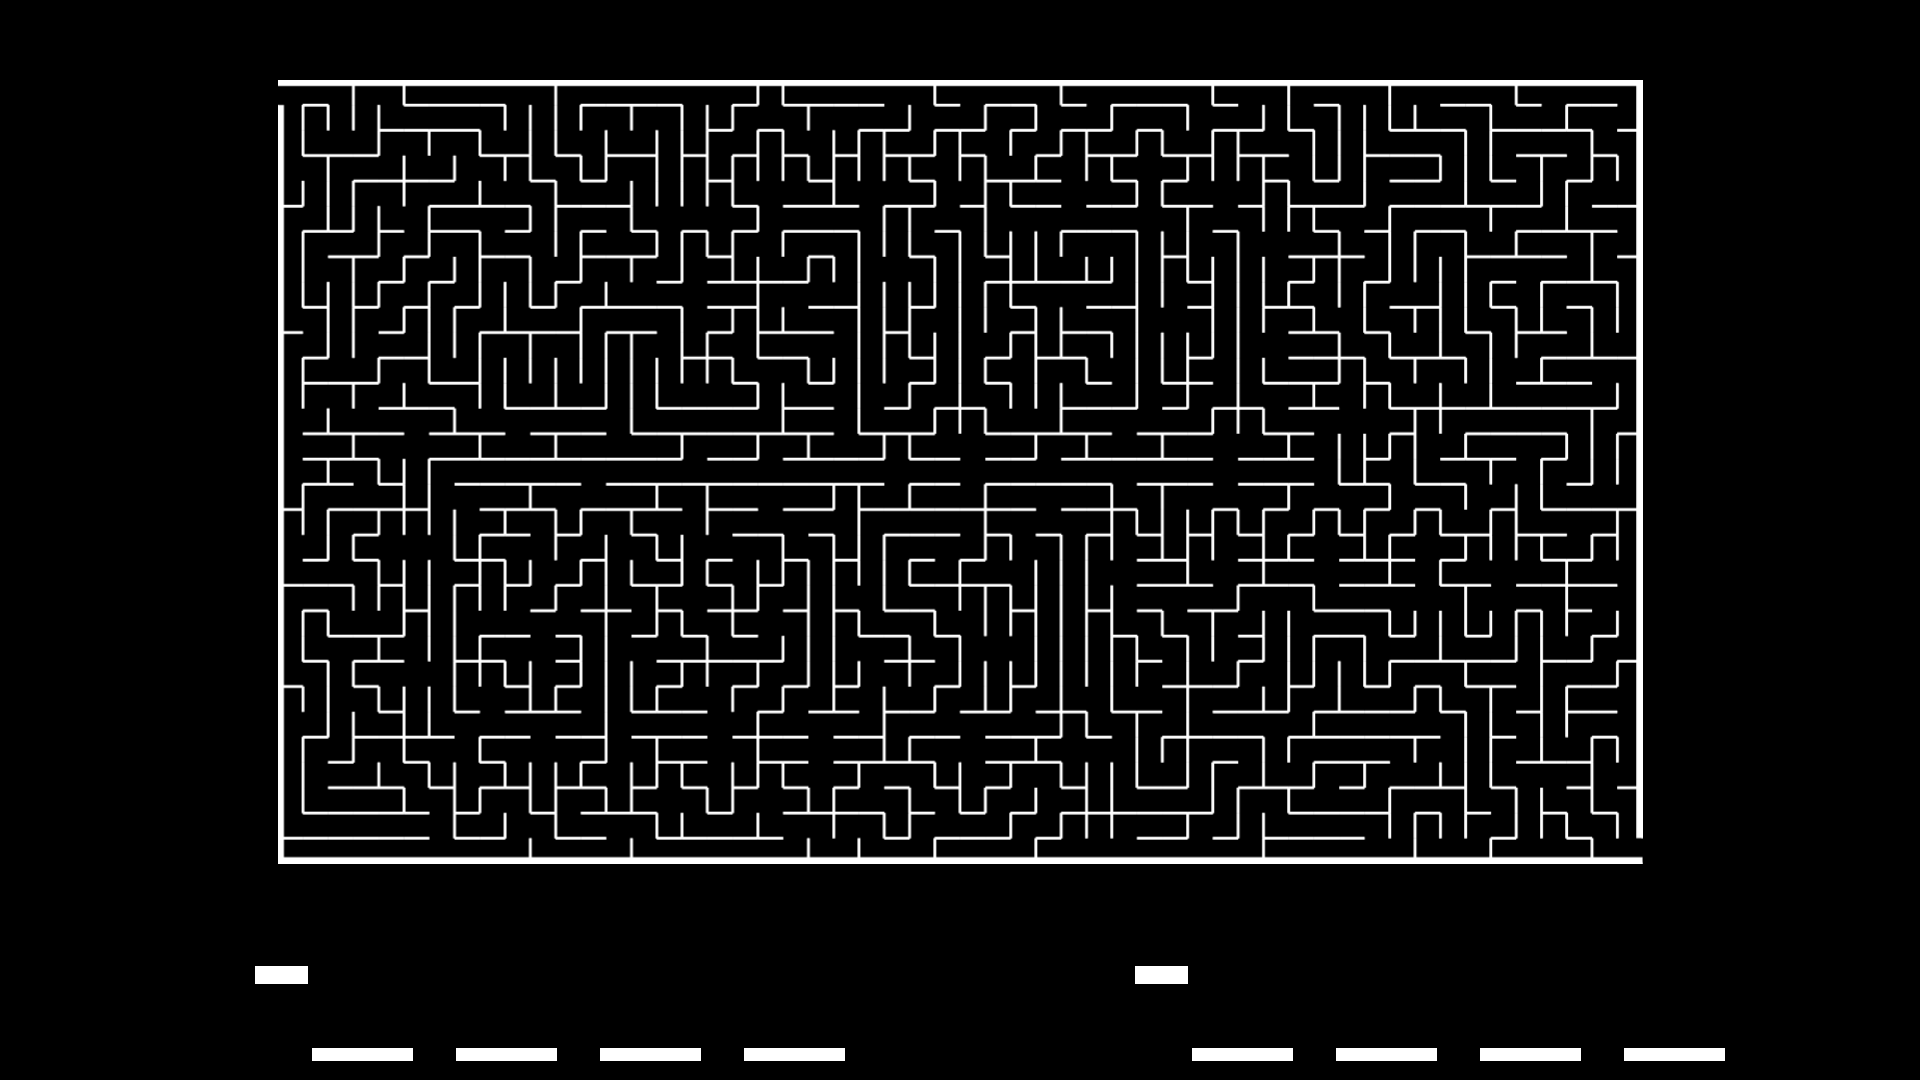
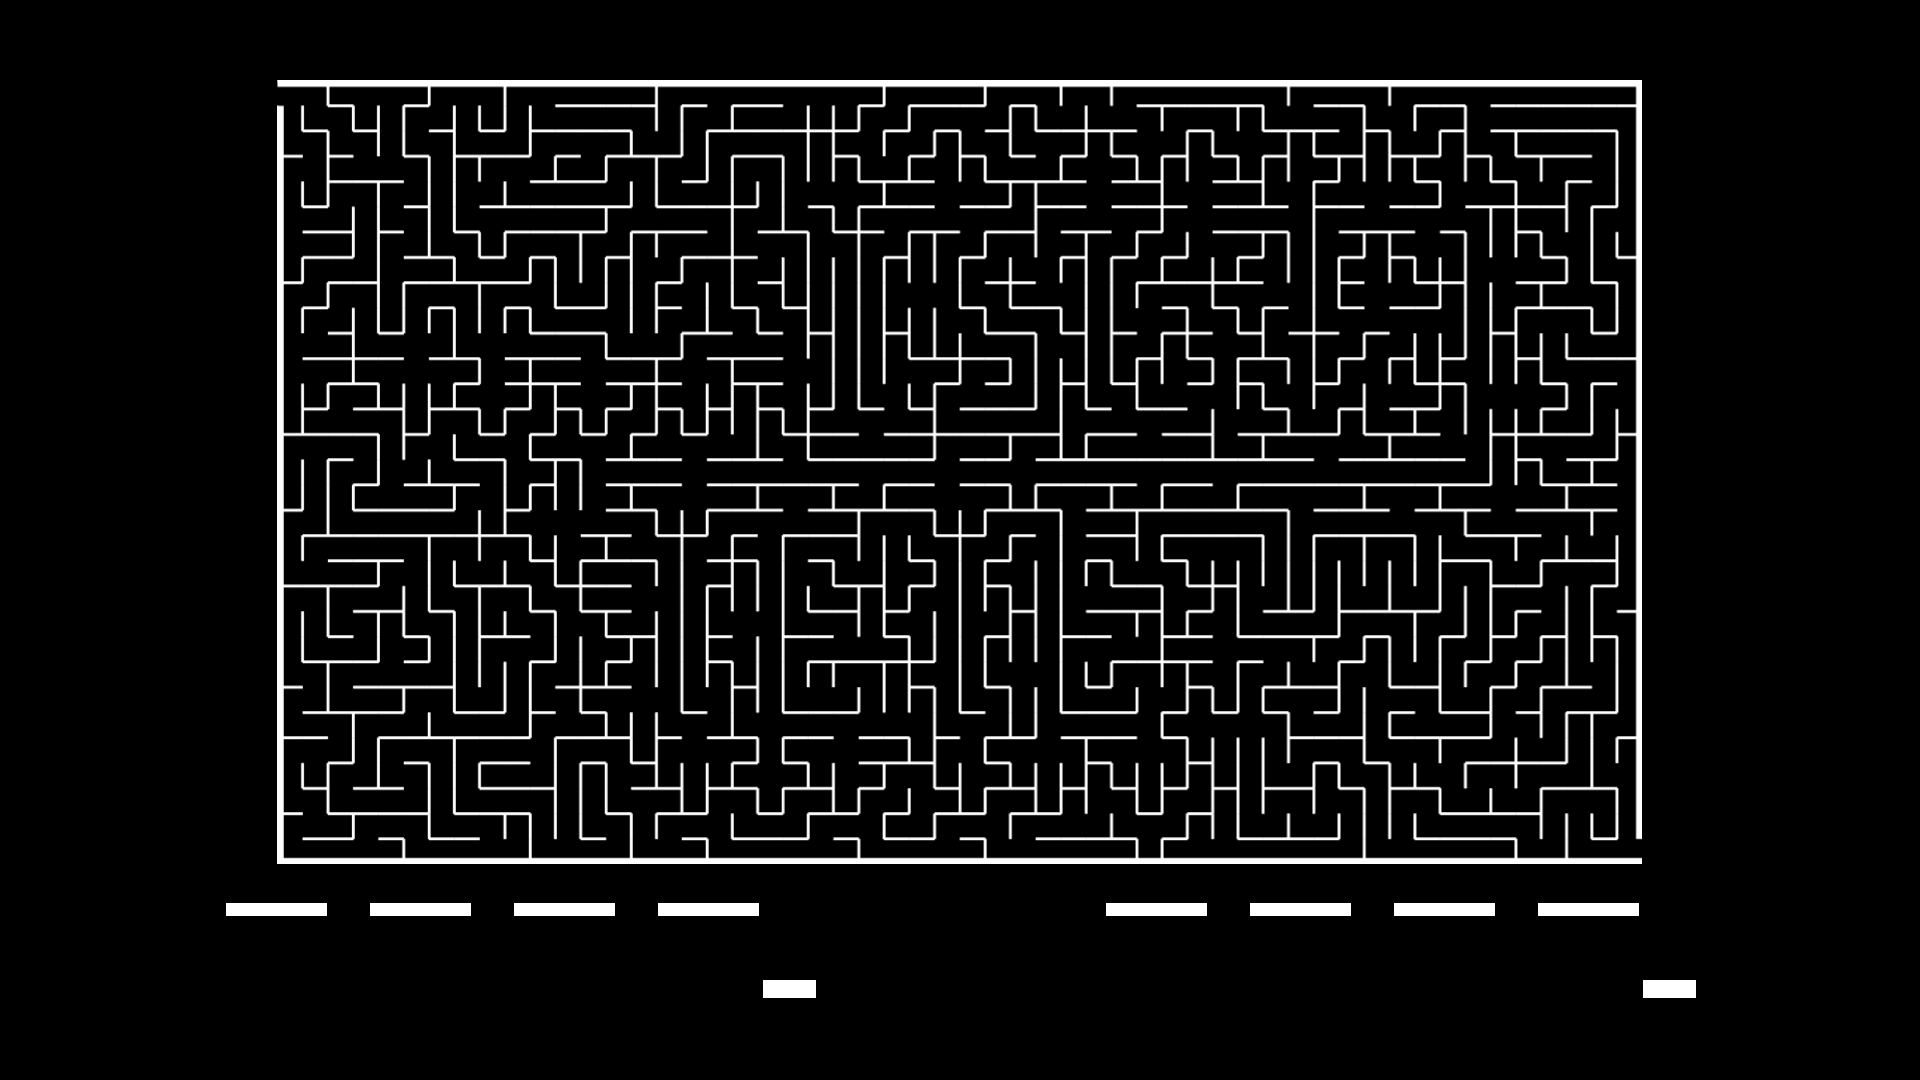
Updated 6,11,12

diff --git a/docs/TheSecondTrial/11/index.html b/docs/TheSecondTrial/11/index.html
@@ -43,6 +43,14 @@
         ctx.drawImage(img, (W - dw) / 2, (H - dh) / 2, dw, dh);
       }
 
+      ctx.textAlign = 'center';
+      ctx.font = '200 3rem sans-serif';
+      ctx.letterSpacing = '0.2em';
+      ctx.fillStyle = '#fff';
+      ctx.fillText('_ _ _ _, _ _ _ _', W / 2, H - 48);
+      ctx.textAlign = 'left';
+      ctx.letterSpacing = '0';
+
       const grad = ctx.createRadialGradient(mouseX, mouseY, 0, mouseX, mouseY, 54);
       grad.addColorStop(0,   'rgba(0,0,0,0)');
       grad.addColorStop(0.4, 'rgba(0,0,0,0)');

diff --git a/docs/_site/TheSecondTrial/11/index.html b/docs/_site/TheSecondTrial/11/index.html
@@ -43,6 +43,14 @@
         ctx.drawImage(img, (W - dw) / 2, (H - dh) / 2, dw, dh);
       }
 
+      ctx.textAlign = 'center';
+      ctx.font = '200 3rem sans-serif';
+      ctx.letterSpacing = '0.2em';
+      ctx.fillStyle = '#fff';
+      ctx.fillText('_ _ _ _, _ _ _ _', W / 2, H - 48);
+      ctx.textAlign = 'left';
+      ctx.letterSpacing = '0';
+
       const grad = ctx.createRadialGradient(mouseX, mouseY, 0, mouseX, mouseY, 54);
       grad.addColorStop(0,   'rgba(0,0,0,0)');
       grad.addColorStop(0.4, 'rgba(0,0,0,0)');

diff --git a/docs/TheSecondTrial/12/index.html b/docs/TheSecondTrial/12/index.html
@@ -17,8 +17,8 @@
   <p class="riddle">
     The pages behold<br>
     The art upon the walls<br>
-    Spoke in hands and symbols<br>
-    To play the sacred music<br>
+    Spoken in hands and symbols<br>
+    The song of Ephemeral<br>
     <br>
     Searching in the darkness<br>
     In a world that doesn't exist<br>

diff --git a/docs/_site/TheSecondTrial/12/index.html b/docs/_site/TheSecondTrial/12/index.html
@@ -17,8 +17,8 @@
   <p class="riddle">
     The pages behold<br>
     The art upon the walls<br>
-    Spoke in hands and symbols<br>
-    To play the sacred music<br>
+    Spoken in hands and symbols<br>
+    The song of Ephemeral<br>
     <br>
     Searching in the darkness<br>
     In a world that doesn't exist<br>